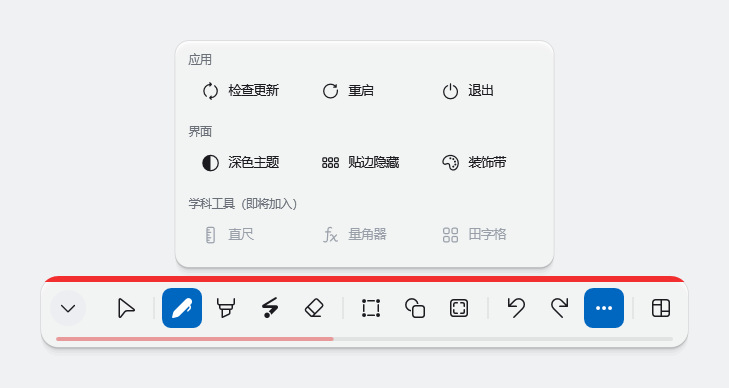
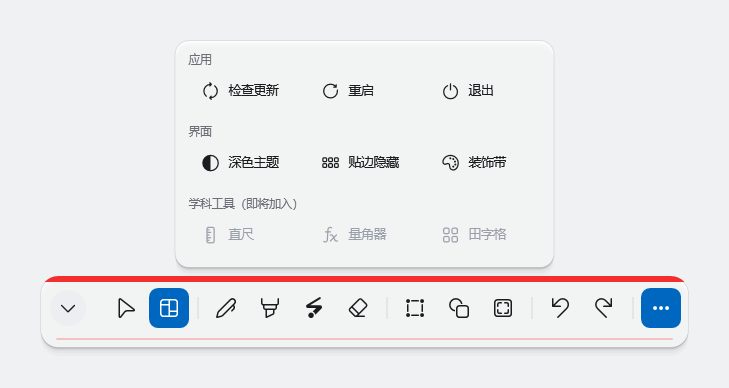
白板按钮：第 1 步（位置落在第一组，工具下标改具名常量）
位置：主条第一组 —— [鼠标][白板] ｜ 四种笔 ｜ 编辑类 ｜ 后撤重做 ｜ 更多。主条变 12 格、宽 649（原 11 格 592）。

已做：点一下开板（当前工具不变）、再点关掉；开着时强调色底＋白图标；假面板按 B 开合；开板自动关穿透并在控制台说明原因（关板不自动恢复）；点开它是 [白板][绿板][黑板] 三色（第 2 步内容顺手一起做）。

顺带把散在代码里的工具数字下标换成具名常量（ToolMouse/ToolBoard/ToolPen…），以后往主条插一格只改常量表、Tools 表、GroupEnds 三处，不用满文件找数字。

diff --git a/tools/ui-mock/Program.cs b/tools/ui-mock/Program.cs
@@ -220,8 +220,8 @@ internal static class Program
         {
             ("01-收起成球",            St(e: 0),                                    false, 0, 0),
             ("02-平时只有一条色线",    St(),                                        false, 0, 0),
-            ("03-笔-12色片",           St(rail: 1, tool: 1, color: 0),              false, 0, 0),
-            ("04-橡皮-整笔与面积",     St(rail: 1, tool: 4, eraser: 1, groove: 1),  false, 0, 0),
+            ("03-笔-12色片",           St(rail: 1, tool: 2, color: 0),              false, 0, 0),
+            ("04-橡皮-整笔与面积",     St(rail: 1, tool: 5, eraser: 1, groove: 1),  false, 0, 0),
             ("05-截屏-直接与隐藏批注", St(rail: 1, tool: 7),                        false, 0, 0),
             ("06-选择-框选与套索",     St(rail: 1, tool: 5),                        false, 0, 0),
             ("07-图形-六种",           St(rail: 1, tool: 6, color: 5),              false, 0, 0),
@@ -230,21 +230,21 @@ internal static class Program
             ("10-图标档-40-20",        St(rail: 1, tool: 1, scale: 0),              false, 0, 0),
             ("11-图标档-44-24",        St(rail: 1, tool: 1, scale: 1),              false, 0, 0),
             ("12-图标档-48-28",        St(rail: 1, tool: 1, scale: 2),              false, 0, 0),
-            ("13-深色-12色片",         St(rail: 1, tool: 1, color: 10, dark: true), false, 0, 0),
-            ("14-贴在假PPT上",         St(tool: 1, color: 0),                       true, 900, 420),
-            ("15-深色贴PPT",           St(rail: 1, tool: 1, color: 10, dark: true), true, 900, 420),
-            ("16-清空-按住进行中",     St(rail: 1, tool: 4, eraser: 1, hold: 0.55, groove: 1), false, 0, 0),
-            ("17-全选-执行闪一下",     St(rail: 1, tool: 5, select: 1, flash: 1),   false, 0, 0),
+            ("13-深色-12色片",         St(rail: 1, tool: 2, color: 10, dark: true), false, 0, 0),
+            ("14-贴在假PPT上",         St(tool: 2, color: 0),                       true, 900, 420),
+            ("15-深色贴PPT",           St(rail: 1, tool: 2, color: 10, dark: true), true, 900, 420),
+            ("16-清空-按住进行中",     St(rail: 1, tool: 5, eraser: 1, hold: 0.55, groove: 1), false, 0, 0),
+            ("17-全选-执行闪一下",     St(rail: 1, tool: 6, select: 1, flash: 1),   false, 0, 0),
             ("18-瘦身档-平时",         St(tool: 1, color: 0, slim: true),            false, 0, 0),
             ("19-瘦身档-展开",         St(rail: 1, tool: 1, color: 0, slim: true),   false, 0, 0),
             ("20-瘦身档-橡皮",         St(rail: 1, tool: 4, eraser: 1, groove: 1, slim: true), false, 0, 0),
             ("21-瘦身档-贴PPT",        St(tool: 1, color: 0, slim: true),            true, 900, 420),
             ("22-更多抽屉",            St(tool: 1, color: 0, more: true),            false, 0, 0),
-            ("23-极简档-笔",           St(tool: 1, color: 0, mini: true, rail: 1),   false, 0, 0),
-            ("24-极简档-橡皮",         St(tool: 4, color: 0, mini: true, rail: 1, eraser: 1, groove: 1), false, 0, 0),
-            ("25-极简档-更多",         St(tool: 1, color: 0, mini: true, more: true), false, 0, 0),
+            ("23-极简档-笔",           St(tool: 2, color: 0, mini: true, rail: 1),   false, 0, 0),
+            ("24-极简档-橡皮",         St(tool: 5, color: 0, mini: true, rail: 1, eraser: 1, groove: 1), false, 0, 0),
+            ("25-极简档-更多",         St(tool: 2, color: 0, mini: true, more: true), false, 0, 0),
             ("26-白板-开着（盖住 PPT）", St(tool: 1, color: 0, board: true, boardColor: 0), true, 900, 420),
-            ("27-白板-板色三选",       St(tool: 11, color: 11, board: true, boardColor: 1, rail: 1), true, 900, 420),
+            ("27-白板-板色三选",       St(tool: 1, color: 11, board: true, boardColor: 1, rail: 1), true, 900, 420),
         };
 
         foreach (var it in list)
@@ -286,7 +286,7 @@ internal static class Program
     }
 
     static PanelState St(double e = 1, double rail = 0, double groove = 0, int color = 0,
-                         bool dark = false, int tool = 1, int laser = 0, int eraser = 0,
+                         bool dark = false, int tool = 2, int laser = 0, int eraser = 0,
                          bool hideInk = false, int select = 0, int shape = 0, int scale = 0,
                          double hold = 0, double flash = 0, bool slim = false, bool more = false,
                          bool mini = false, bool board = false, int boardColor = 0)
@@ -310,19 +310,19 @@ internal static class Program
     {
         var rows = new (string Title, PanelState St)[]
         {
-            ("笔：12 色片（满饱和、带间隙、圆角）", St(rail: 1, tool: 1, color: 0)),
-            ("荧光笔：同一组色片（画出来是半透明）", St(rail: 1, tool: 2, color: 2)),
-            ("激光笔：小 / 中 / 大（下带＝光点大小）", St(rail: 1, tool: 3, laser: 0)),
-            ("橡皮擦：整笔擦 / 面积擦（下带＝橡皮大小）", St(rail: 1, tool: 4, eraser: 1, groove: 1)),
-            ("选择：矩形框选 / 自由套索", St(rail: 1, tool: 5, select: 1)),
-            ("图形：直线 箭头 矩形 椭圆 三角 平行四边形", St(rail: 1, tool: 6, shape: 2)),
-            ("截屏：直接截取 / 隐藏批注截取", St(rail: 1, tool: 7, hideInk: true)),
+            ("笔：12 色片（满饱和、带间隙、圆角）", St(rail: 1, tool: 2, color: 0)),
+            ("荧光笔：同一组色片（画出来是半透明）", St(rail: 1, tool: 3, color: 2)),
+            ("激光笔：小 / 中 / 大（下带＝光点大小）", St(rail: 1, tool: 4, laser: 0)),
+            ("橡皮擦：整笔擦 / 面积擦（下带＝橡皮大小）", St(rail: 1, tool: 5, eraser: 1, groove: 1)),
+            ("选择：矩形框选 / 自由套索", St(rail: 1, tool: 6, select: 1)),
+            ("图形：直线 箭头 矩形 椭圆 三角 平行四边形", St(rail: 1, tool: 7, shape: 2)),
+            ("截屏：直接截取 / 隐藏批注截取", St(rail: 1, tool: 8, hideInk: true)),
             ("鼠标：直接操作 / 穿透点击", St(rail: 1, tool: 0)),
-            ("设置：装饰带 / 贴边隐藏 / 深色主题", St(rail: 1, tool: 10)),
-            ("平时：上带退成一条色线（4 像素）", St(tool: 1, color: 0)),
-            ("任务栏档：平时 52（原 80）", St(tool: 1, color: 0)),
-            ("任务栏档：展开 76（原 108）", St(rail: 1, tool: 1, color: 0)),
-            ("深色主题：同一套（黑块已提亮）", St(rail: 1, tool: 1, color: 10, dark: true)),
+            ("设置：装饰带 / 贴边隐藏 / 深色主题", St(rail: 1, tool: 11)),
+            ("平时：上带退成一条色线（4 像素）", St(tool: 2, color: 0)),
+            ("任务栏档：平时 52（原 80）", St(tool: 2, color: 0)),
+            ("任务栏档：展开 76（原 108）", St(rail: 1, tool: 2, color: 0)),
+            ("深色主题：同一套（黑块已提亮）", St(rail: 1, tool: 2, color: 10, dark: true)),
         };
 
         const double W = 760, X = 84;
@@ -332,7 +332,7 @@ internal static class Program
         foreach (var r in rows) total += PanelDraw.Compute(r.St).H + 52;
         total += 10 + 30;
         foreach (int sc in new[] { 0, 1, 2, 3 })
-            total += PanelDraw.Compute(St(rail: 1, tool: 1, scale: sc, slim: true)).H + 44;
+            total += PanelDraw.Compute(St(rail: 1, tool: 2, scale: sc, slim: true)).H + 44;
         total += 40;
 
         var dv = new DrawingVisual();
@@ -360,7 +360,7 @@ internal static class Program
             y += 30;
             foreach (int sc in new[] { 0, 1, 2, 3 })
             {
-                var st = St(rail: 1, tool: 1, scale: sc, slim: true);
+                var st = St(rail: 1, tool: 2, scale: sc, slim: true);
                 var L = PanelDraw.Compute(st);
                 var sca = PanelDraw.Scales[sc];
                 PanelDraw.Text(c, $"按钮 {sca.Btn:F0} ／ 图标 {sca.Icon:F0}　→　面板总高 {L.H:F0}", X, y, 12.5,

diff --git a/tools/ui-mock/PanelDraw.cs b/tools/ui-mock/PanelDraw.cs
@@ -27,8 +27,13 @@ internal static class PanelDraw
 
     static readonly int[] AllToolsIndex = { 0, 1, 2, 3, 4, 5, 6, 7, 8, 9, 10, 11 };
 
+    // 工具下标写成具名常量：以后再往主条里插一格，只改这一处，不用满文件找数字
+    public const int ToolMouse = 0, ToolBoard = 1, ToolPen = 2, ToolHighlighter = 3, ToolLaser = 4,
+                     ToolEraser = 5, ToolSelect = 6, ToolShapes = 7, ToolCapture = 8,
+                     ToolUndo = 9, ToolRedo = 10, ToolMore = 11;
+
     /// <summary>极简档：只钉"笔 / 橡皮"，加一个永远的"更多"（下标是 Tools 里的原始下标）。</summary>
-    public static readonly int[] MiniTools = { 1, 4, 10 };
+    public static readonly int[] MiniTools = { ToolPen, ToolEraser, ToolMore };
 
     /// <summary>极简档的 4 个颜色：红 / 黑 / 蓝 / 白（白笔是投影刚需）。</summary>
     public static readonly int[] MiniPalette = { 0, BlackIndex, 5, WhiteIndex };
@@ -74,8 +79,9 @@ internal static class PanelDraw
 
     public static readonly (string Icon, string Filled, string Name)[] Tools =
     {
-        ("mouse", "mouseFilled", "鼠标"),
-        ("pen", "penFilled", "笔"),
+        ("mouse", "mouseFilled", "鼠标"),          // ToolMouse
+        ("board", "board", "白板"),                // ToolBoard —— 和鼠标同属"画布模式"，所以紧挨着
+        ("pen", "penFilled", "笔"),                // ToolPen
         ("highlighter", "highlighterFilled", "荧光笔"),
         ("laser", "laserFilled", "激光笔"),
         ("eraser", "eraserFilled", "橡皮擦"),
@@ -85,18 +91,18 @@ internal static class PanelDraw
         ("undo", "undoFilled", "后撤"),
         ("redo", "redoFilled", "重做"),
         ("more", "moreFilled", "更多"),
-        ("board", "board", "白板"),
     };
 
-    public static readonly int[] GroupEnds = { 0, 4, 7, 10 };
+    /// <summary>这些下标之后插一条分隔线：鼠标+白板 ｜ 四种笔 ｜ 编辑类 ｜ 后撤重做 ｜ 更多。</summary>
+    public static readonly int[] GroupEnds = { ToolBoard, ToolEraser, ToolCapture, ToolRedo };
 
     /// <summary>后撤/重做是"动作"，点了就执行，不切换上下文。</summary>
-    public static bool IsAction(int tool) => tool is 8 or 9;
+    public static bool IsAction(int tool) => tool is ToolUndo or ToolRedo;
     /// <summary>"更多"是入口：点了开合抽屉，也不改当前工具。</summary>
-    public static bool IsEntry(int tool) => tool == 10;
+    public static bool IsEntry(int tool) => tool == ToolMore;
 
     /// <summary>白板是"画布开关"，不是工具：点了不改当前工具，只切底色。</summary>
-    public const int BoardTool = 11;
+    public const int BoardTool = ToolBoard;
 
     /// <summary>板色：白板 / 绿板 / 黑板 —— 教学上最常见的三种。</summary>
     public static readonly (string Name, Color Color)[] BoardColors =
@@ -211,41 +217,41 @@ internal static class PanelDraw
             return new StripSpec { Kind = StripKind.Colors, Decorative = true, Sel = s.Color };
         switch (s.Tool)
         {
-            case 1: // 笔
+            case ToolPen: // 笔
                 sp.Kind = StripKind.Colors; sp.Sel = s.Color; sp.HasSlider = true; sp.SliderHint = "笔宽";
                 break;
-            case 2: // 荧光笔
+            case ToolHighlighter: // 荧光笔
                 sp.Kind = StripKind.Colors; sp.Sel = s.Color; sp.HasSlider = true; sp.SliderHint = "荧光笔宽";
                 break;
-            case 3: // 激光笔
+            case ToolLaser: // 激光笔
                 sp.Kind = StripKind.Segments; sp.Labels = new[] { "小", "中", "大" };
                 sp.Sel = s.LaserSize; sp.HasSlider = true; sp.SliderHint = "光点大小";
                 break;
-            case 4: // 橡皮擦 —— 你说的"线擦还是面积擦"
+            case ToolEraser: // 橡皮擦 —— 你说的"线擦还是面积擦"
                 sp.Kind = StripKind.Segments; sp.Labels = new[] { "整笔擦", "面积擦" };
                 sp.Sel = s.EraserMode; sp.HasSlider = true; sp.SliderHint = "橡皮大小";
                 // 清空挂在橡皮这条的右端：擦一点 / 擦一块 / 全擦掉，语义是一路的。
                 // **按住才算数**（0.8 秒），因为清空是可撤销、但代价很大的动作。
                 sp.ActionIcon = "broom"; sp.ActionLabel = "清空"; sp.ActionId = ActionClear; sp.ActionHoldMs = 800;
                 break;
-            case 5: // 选择
+            case ToolSelect: // 选择
                 sp.Kind = StripKind.Segments; sp.Labels = new[] { "矩形框选", "自由套索" }; sp.Sel = s.SelectMode;
                 // 全选是"动作"不是"模式"：点一下就执行，不会保持高亮
                 sp.ActionIcon = "selectAll"; sp.ActionLabel = "全选"; sp.ActionId = ActionSelectAll;
                 break;
-            case 6: // 图形
+            case ToolShapes: // 图形
                 sp.Kind = StripKind.Shapes; sp.Sel = s.ShapeKind;
                 sp.Icons = new[] { "lineWeight", "arrowRight", "square", "circle", "triangle", "shapes" };
                 sp.Labels = new[] { "直线", "箭头", "矩形", "椭圆", "三角", "平行四边形" };
                 sp.HasSlider = true; sp.SliderHint = "线宽";
                 break;
-            case 7: // 截屏 —— 你说的"直接截 / 隐藏界面截"
+            case ToolCapture: // 截屏 —— 你说的"直接截 / 隐藏界面截"
                 sp.Kind = StripKind.Segments; sp.Labels = new[] { "直接截取", "隐藏批注截取" }; sp.Sel = s.CaptureHideInk ? 1 : 0;
                 break;
-            case 10: // 「更多」是入口不是工具：上带留作装饰（里面的开关都搬进抽屉了）
+            case ToolMore: // 「更多」是入口不是工具：上带留作装饰（里面的开关都搬进抽屉了）
                 sp.Kind = StripKind.Colors; sp.Decorative = true; sp.Sel = s.Color;
                 break;
-            case BoardTool: // 白板：上带就是三种板色（正好复用"上带＝这个按钮的设置条"这条规则）
+            case ToolBoard: // 白板：上带就是三种板色（正好复用"上带＝这个按钮的设置条"这条规则）
                 sp.Kind = StripKind.Segments; sp.Labels = new[] { "白板", "绿板", "黑板" };
                 sp.Sel = s.BoardColor;
                 break;
@@ -713,7 +719,7 @@ internal static class PanelDraw
                         : (dark ? C(0xFF, 0xFF, 0xFF, 0x24) : C(0x00, 0x00, 0x00, 0x18))), null, pr, 8, 8);
             }
 
-            if (tool == 3)
+            if (tool == ToolLaser)
                 DrawLaser(c, cx, cy, L.Icon, new SolidColorBrush(active ? Colors.White : InkColor(dark)), s.LaserStyle);
             else
                 Icon(c, active ? Tools[tool].Filled : Tools[tool].Icon, cx, cy, L.Icon,
@@ -757,9 +763,9 @@ internal static class PanelDraw
         {
             c.DrawEllipse(Brushes.White, new Pen(new SolidColorBrush(C(0x30, 0x34, 0x3C)), 1),
                           new Point(inset + trackW * s.Slider01, cy), 8, 8);
-            if (s.Tool == 4 && s.EraserMode == 0)
+            if (s.Tool == ToolEraser && s.EraserMode == 0)
                 c.DrawEllipse(null, new Pen(new SolidColorBrush(ink), 2.4), new Point(px, cy), 3 + 8 * s.Slider01, 3 + 8 * s.Slider01);
-            else if (s.Tool == 4)
+            else if (s.Tool == ToolEraser)
                 c.DrawRoundedRectangle(new SolidColorBrush(WithAlpha(ink, 0xCC)), null,
                                        new Rect(px - (4 + 7 * s.Slider01) / 1.6, cy - (4 + 7 * s.Slider01), (4 + 7 * s.Slider01) / 0.8, (4 + 7 * s.Slider01) * 2), 3, 3);
             else

diff --git a/tools/ui-mock/MockWindow.cs b/tools/ui-mock/MockWindow.cs
@@ -383,23 +383,23 @@ internal sealed class PanelElement : FrameworkElement
     {
         switch (State.Tool)
         {
-            case 0:
+            case PanelDraw.ToolMouse:
                 State.PassThrough = i == 1;
                 Status?.Invoke(State.PassThrough ? "鼠标：穿透点击（引擎里就是 SetPassThrough）" : "鼠标：直接操作");
                 break;
-            case 3:
+            case PanelDraw.ToolLaser:
                 State.LaserSize = i;
                 Status?.Invoke("激光笔光点：" + new[] { "小", "中", "大" }[i]);
                 break;
-            case 4:
+            case PanelDraw.ToolEraser:
                 State.EraserMode = i;
                 Status?.Invoke(i == 0 ? "橡皮：整笔擦（引擎里是 EraseAt：碰到哪条删哪条）" : "橡皮：面积擦（引擎里是像素橡皮，一笔切成两段）");
                 break;
-            case 5:
+            case PanelDraw.ToolSelect:
                 State.SelectMode = i;
                 Status?.Invoke(i == 0 ? "选择：矩形框选（碰到就选）" : "选择：自由套索（80% 判据）");
                 break;
-            case 7:
+            case PanelDraw.ToolCapture:
                 State.CaptureHideInk = i == 1;
                 Status?.Invoke(i == 0 ? "截屏：直接截取（含批注）" : "截屏：隐藏批注截取（先把自己的覆盖层藏起来）");
                 break;
@@ -438,9 +438,9 @@ internal sealed class PanelElement : FrameworkElement
 
     double SliderValue()
     {
-        if (State.Tool == 4) return 8 + State.Slider01 * 56;      // 橡皮 8～64
-        if (State.Tool == 3) return 4 + State.Slider01 * 20;      // 激光 4～24
-        if (State.Tool == 2) return 16 + State.Slider01 * 48;     // 荧光笔 16～64
+        if (State.Tool == PanelDraw.ToolEraser) return 8 + State.Slider01 * 56;      // 橡皮 8～64
+        if (State.Tool == PanelDraw.ToolLaser) return 4 + State.Slider01 * 20;      // 激光 4～24
+        if (State.Tool == PanelDraw.ToolHighlighter) return 16 + State.Slider01 * 48;     // 荧光笔 16～64
         return 1.5 + State.Slider01 * 38.5;                       // 笔 1.5～40
     }
 
@@ -461,7 +461,7 @@ internal sealed class PanelElement : FrameworkElement
         State.Mini = !State.Mini;
         // 切过去以后，如果当前工具不在这一档里，就落到"笔"
         bool visible = Array.IndexOf(PanelDraw.VisibleTools(State), State.Tool) >= 0;
-        if (!visible) State.Tool = 1;
+        if (!visible) State.Tool = PanelDraw.ToolPen;
         State.MoreOpen = false;
         State.HoverTile = -1;
         InvalidateMeasure();

diff --git a/计划-界面-白板按钮.md b/计划-界面-白板按钮.md
@@ -1,6 +1,6 @@
 # 计划：补上「白板」按钮
 
-日期：2026-09-16　　状态：计划 + 假面板里已能演示
+日期：2026-09-16　　状态：**第 1 步已做进假面板**（按 `B` 开合），第 2 步待定
 
 截图：`design/mock/26-白板-开着（盖住 PPT）.png`、`27-白板-板色三选.png`
 
@@ -133,6 +133,35 @@
 - 开板 → 背后的假 PPT **被整块盖住**（这就是白板在真环境里的样子）
 - 开板时**自动关穿透**
 - 控制台按 **`B`** 直接开合白板
+
+---
+
+## 八点五、第 1 步已完成（2026-09-16）
+
+按你的决定，位置落在**第一组**：`[鼠标][白板] ｜ [笔 荧光笔 激光笔 橡皮擦] ｜ [选择 图形 截屏] ｜ [后撤 重做] ｜ [更多]`。
+
+| 项 | 结果 |
+|---|---|
+| 主条 | 12 格，宽 **649**（原来 11 格 592；多出来的 57 ＝ 一个 40 的按钮 ＋ 4 间隙 ＋ 13 的分隔线） |
+| 开 / 关 | 点一下开板（**当前工具不变**）、再点关掉 |
+| 高亮 | 开着时按钮是强调色底 ＋ 白图标（表示"板开着"，不是"当前工具＝白板"） |
+| 快捷键 | 假面板里按 **`B`**；真产品的建议键位仍是 `Ctrl+Alt+B`（要先把开发期的一万笔基准挪走） |
+| 开板自动关穿透 | 已做：开板时把穿透关掉，并在控制台说明原因；关板**不自动恢复**穿透 |
+| 上带 | 点开它是 `[白板][绿板][黑板]` 三色（第 2 步的内容，顺手一起做出来了） |
+
+### 顺带做的一件事：工具下标改成具名常量
+
+白板要插到"鼠标"后面，意味着后面所有工具的下标都要挪一位。
+为了以后不再来一次这种折腾，我把散在代码里的数字下标换成了具名常量：
+
+```csharp
+public const int ToolMouse = 0, ToolBoard = 1, ToolPen = 2, ToolHighlighter = 3, ToolLaser = 4,
+                 ToolEraser = 5, ToolSelect = 6, ToolShapes = 7, ToolCapture = 8,
+                 ToolUndo = 9, ToolRedo = 10, ToolMore = 11;
+```
+
+以后**再往主条里插一格，只改这一处**（加常量 ＋ 在 `Tools` 表里插一行 ＋ 改 `GroupEnds`），
+不用满文件找数字了。
 
 ---
 

diff --git a/README.md b/README.md
@@ -71,6 +71,8 @@
 [计划-界面-白板按钮.md](计划-界面-白板按钮.md)；假面板里已能演示：
 按 `B` 开合，点开它还有 `[白板][绿板][黑板]` 三色可选，
 截图 `design/mock/26-白板-开着（盖住 PPT）.png`、`27-白板-板色三选.png`。
+**白板第 1 步已完成**：位置在主条**第一组**（鼠标旁边），开关/高亮/快捷键/开板自动关穿透都做了；
+主条变 12 格、宽 649。顺带把工具下标改成具名常量，以后插一格只改一处。
 
 > **两轮"减法"（2026-09-14）**：
 > 1. **手写美化整层删除**（`src/InkEngine.Optimize`：1€ 滤波、RDP 抽稀、贝塞尔拟合、
